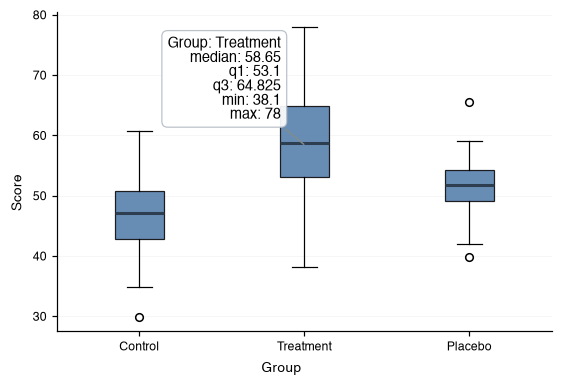
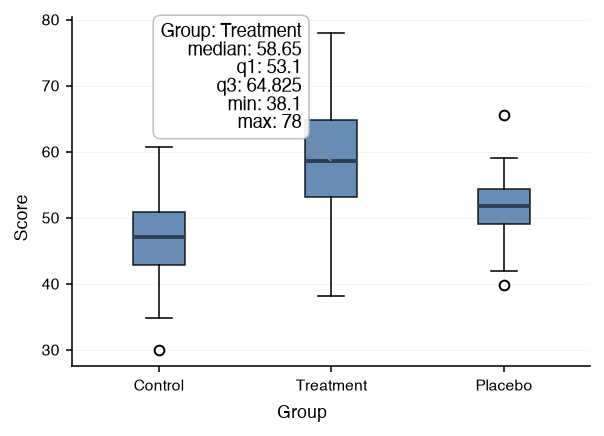
docs(interactive): lay the hovered screenshots out two per row
Each pair sits in a two-column table with the captions as its header,
so the gallery reads in half the height; the screenshots are rendered on
a tighter figure so the annotation stays legible at half width.

diff --git a/docs/assets/scripts/generate_hover_shots.py b/docs/assets/scripts/generate_hover_shots.py
@@ -43,8 +43,8 @@ from datachart.charts import (
 )
 
 OUT = pathlib.Path(__file__).resolve().parents[1] / "imgs"
-FIGSIZE = (5.0, 3.4)
-DPI = 110
+FIGSIZE = (4.2, 3.0)
+DPI = 140
 
 rng = np.random.default_rng(7)
 GROUPS = {

diff --git a/docs/how-to-guides/utility/interactive.md b/docs/how-to-guides/utility/interactive.md
@@ -70,74 +70,38 @@ Every chart type has hover support. Filled marks — bars, bands, boxes, bodies,
 
 The annotation on each chart, from the figure shown with `show(interactive=True)` and a mark hovered:
 
-**Line Chart** — a hovered point
+| **Line Chart** — a hovered point | **Stacked Area Chart** — a hovered band |
+| :-- | :-- |
+| ![A line chart with a hovered point](../../assets/imgs/hover-line.png) | ![A stacked area chart with a hovered band](../../assets/imgs/hover-stackedarea.png) |
 
-![A line chart with a hovered point](../../assets/imgs/hover-line.png)
+| **Bar Chart** — a hovered bar | **Pyramid Chart** — a hovered bar |
+| :-- | :-- |
+| ![A grouped bar chart with a hovered bar](../../assets/imgs/hover-bar.png) | ![A pyramid chart with a hovered bar](../../assets/imgs/hover-pyramid.png) |
 
-**Stacked Area Chart** — a hovered band
+| **Radial Chart** — a hovered bar | **Histogram** — a hovered bin |
+| :-- | :-- |
+| ![A radial bar chart with a hovered bar](../../assets/imgs/hover-radial.png) | ![A histogram with a hovered bin](../../assets/imgs/hover-histogram.png) |
 
-![A stacked area chart with a hovered band](../../assets/imgs/hover-stackedarea.png)
+| **Box Plot** — a hovered box | **Violin Plot** — a hovered body |
+| :-- | :-- |
+| ![A box plot with a hovered box](../../assets/imgs/hover-box.png) | ![A violin plot with a hovered body](../../assets/imgs/hover-violin.png) |
 
-**Bar Chart** — a hovered bar
+| **Swarm Plot** — a hovered point | **Raincloud Plot** — a hovered box |
+| :-- | :-- |
+| ![A swarm plot with a hovered point](../../assets/imgs/hover-swarm.png) | ![A raincloud plot with a hovered box](../../assets/imgs/hover-raincloud.png) |
 
-![A grouped bar chart with a hovered bar](../../assets/imgs/hover-bar.png)
+| **Scatter Chart** — a hovered point | **Heatmap** — a hovered cell |
+| :-- | :-- |
+| ![A scatter chart with a hovered point](../../assets/imgs/hover-scatter.png) | ![A heatmap with a hovered cell](../../assets/imgs/hover-heatmap.png) |
 
-**Pyramid Chart** — a hovered bar
+| **Contour Chart** — a hovered level line | **Hexbin Chart** — a hovered hexagon |
+| :-- | :-- |
+| ![A contour chart with a hovered level line](../../assets/imgs/hover-contour.png) | ![A hexbin chart with a hovered hexagon](../../assets/imgs/hover-hexbin.png) |
 
-![A pyramid chart with a hovered bar](../../assets/imgs/hover-pyramid.png)
+| **Parallel Coordinates** — a hovered row | **Network Chart** — a hovered node |
+| :-- | :-- |
+| ![A parallel coordinates chart with a hovered row](../../assets/imgs/hover-parallelcoords.png) | ![A network chart with a hovered node](../../assets/imgs/hover-network.png) |
 
-**Radial Chart** — a hovered bar
-
-![A radial bar chart with a hovered bar](../../assets/imgs/hover-radial.png)
-
-**Histogram** — a hovered bin
-
-![A histogram with a hovered bin](../../assets/imgs/hover-histogram.png)
-
-**Box Plot** — a hovered box
-
-![A box plot with a hovered box](../../assets/imgs/hover-box.png)
-
-**Violin Plot** — a hovered body
-
-![A violin plot with a hovered body](../../assets/imgs/hover-violin.png)
-
-**Swarm Plot** — a hovered point
-
-![A swarm plot with a hovered point](../../assets/imgs/hover-swarm.png)
-
-**Raincloud Plot** — a hovered box
-
-![A raincloud plot with a hovered box](../../assets/imgs/hover-raincloud.png)
-
-**Scatter Chart** — a hovered point
-
-![A scatter chart with a hovered point](../../assets/imgs/hover-scatter.png)
-
-**Heatmap** — a hovered cell
-
-![A heatmap with a hovered cell](../../assets/imgs/hover-heatmap.png)
-
-**Contour Chart** — a hovered level line
-
-![A contour chart with a hovered level line](../../assets/imgs/hover-contour.png)
-
-**Hexbin Chart** — a hovered hexagon
-
-![A hexbin chart with a hovered hexagon](../../assets/imgs/hover-hexbin.png)
-
-**Parallel Coordinates** — a hovered row
-
-![A parallel coordinates chart with a hovered row](../../assets/imgs/hover-parallelcoords.png)
-
-**Network Chart** — a hovered node
-
-![A network chart with a hovered node](../../assets/imgs/hover-network.png)
-
-**Sankey Chart** — a hovered link
-
-![A sankey chart with a hovered link](../../assets/imgs/hover-sankey.png)
-
-**Treemap** — a hovered tile
-
-![A treemap with a hovered tile](../../assets/imgs/hover-treemap.png)
+| **Sankey Chart** — a hovered link | **Treemap** — a hovered tile |
+| :-- | :-- |
+| ![A sankey chart with a hovered link](../../assets/imgs/hover-sankey.png) | ![A treemap with a hovered tile](../../assets/imgs/hover-treemap.png) |
